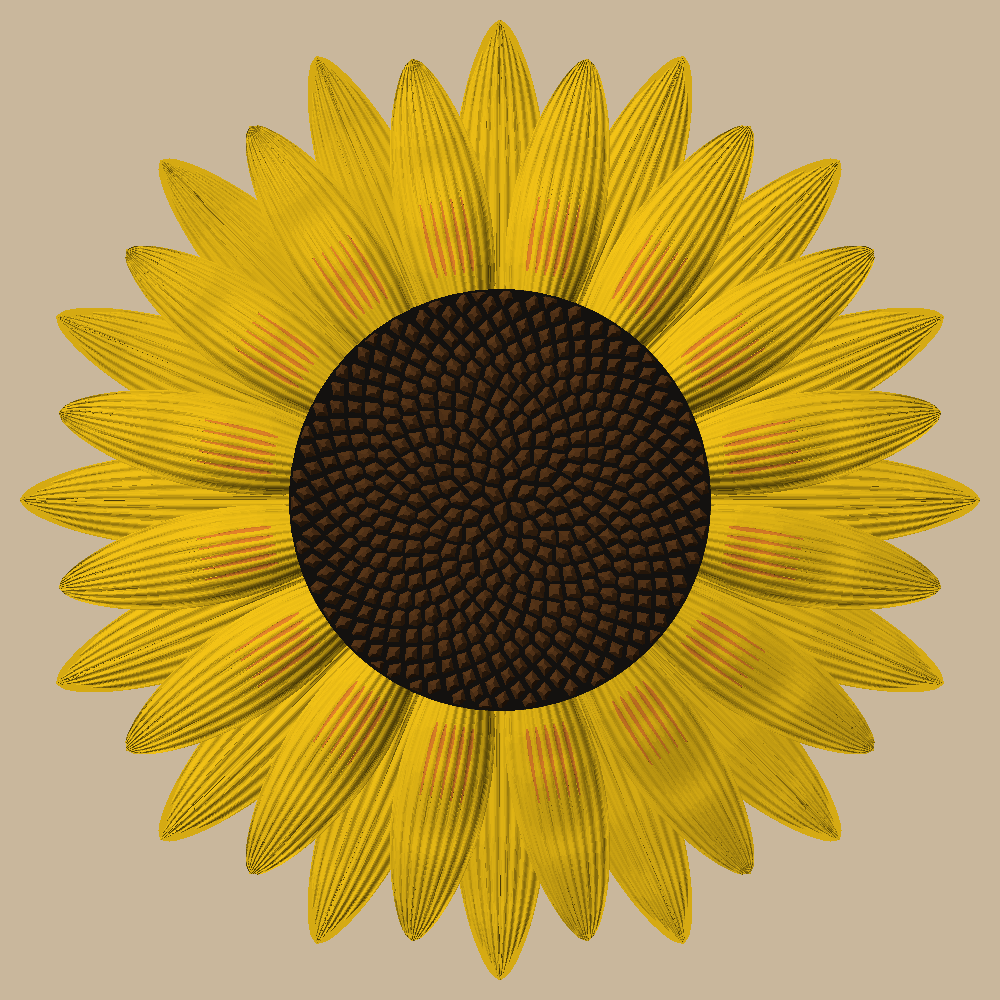
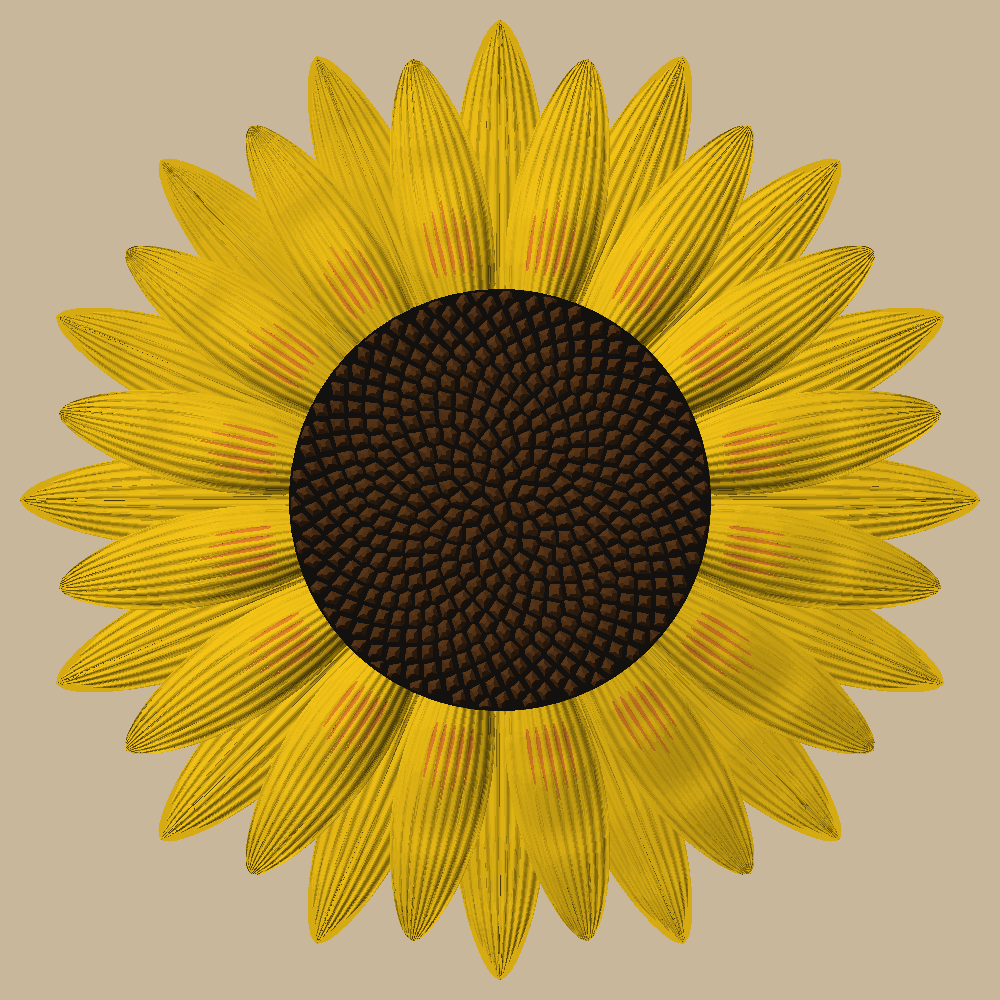
Sunflower: beads vary in length, the middle one longest, the outer pair 25% shorter
All start at the top of the arch; layout.bead_end steps each one shorter toward the
edges (bead_falloff). Fewer layers shared with yellow: 18 swaps (was 22), 9.3 h,
176 g. Flower tests green, including Bambu.

diff --git a/examples/sunflower-wall/tests/test_petals.py b/examples/sunflower-wall/tests/test_petals.py
@@ -36,9 +36,26 @@ def test_printed_petal_keeps_its_vein_grooves():
     assert dips >= S.petal_veins - 3  # the outer grooves sit past 0.8 of the half width
 
 
-def test_bead_width_fades_in_then_tapers_out():
+def test_middle_bead_runs_longest_the_outer_ones_shortest():
+    """Some variety: every bead starts at the top of the arch, the middle one runs to bead_r's end, and each step
+    out toward the edges ends sooner, the outermost bead_falloff of the length shorter."""
     r0, r1 = S.bead_r
-    w = lambda r: layout.bead_width(S, r)
+    mid = S.bead_valleys[len(S.bead_valleys) // 2]
+    ends = {k: layout.bead_end(S, k) for k in S.bead_valleys}
+    assert ends[mid] == pytest.approx(r1)
+    for k in S.bead_valleys:
+        if k != mid:
+            closer = k + (1 if k < mid else -1)
+            assert ends[k] < ends[closer]
+            assert ends[k] == pytest.approx(ends[2 * mid - k])  # the same each side
+    out = S.bead_valleys[0]
+    assert ends[out] == pytest.approx(r1 - (r1 - r0) * S.bead_falloff)
+
+
+@pytest.mark.parametrize("k", [2, 4])
+def test_bead_width_fades_in_then_tapers_out(k):
+    r0, r1 = S.bead_r[0], layout.bead_end(S, k)
+    w = lambda r: layout.bead_width(S, r, k)
     assert w(r0 - 0.1) == 0 and w(r1 + 0.1) == 0
     assert w(r0) == pytest.approx(S.bead_w_end) and w(r1) == pytest.approx(S.bead_w_end)
     assert w(r0 + S.bead_fade) == pytest.approx(S.bead_w)
@@ -56,11 +73,11 @@ def _bead_r_mid():
 
 
 def test_one_orange_bead_down_each_middle_valley(beads):
-    r0, r1 = S.bead_r
+    r0 = S.bead_r[0]
     assert len(beads.solids()) == len(S.bead_valleys)
-    for s in beads.solids():
+    for s, k in zip(sorted(beads.solids(), key=lambda s: s.center().Y), S.bead_valleys):
         bb = s.bounding_box()
-        assert bb.min.X == pytest.approx(r0, abs=0.05) and bb.max.X == pytest.approx(r1, abs=0.05)
+        assert bb.min.X == pytest.approx(r0, abs=0.05) and bb.max.X == pytest.approx(layout.bead_end(S, k), abs=0.05)
     r = _bead_r_mid()
     hw = layout.half_width(S.front, r)
     pieces = sorted((s.bounding_box() for s in (beads & probe(r - 0.05, -30, 0, 0.1, 60, 30)).solids()),
@@ -68,7 +85,7 @@ def test_one_orange_bead_down_each_middle_valley(beads):
     assert len(pieces) == len(S.bead_valleys)
     for b, k in zip(pieces, S.bead_valleys):
         assert b.center().Y == pytest.approx(layout.valley_u(S, k) * hw, abs=0.05)
-        assert b.size.Y == pytest.approx(layout.bead_width(S, r), abs=0.05)
+        assert b.size.Y == pytest.approx(layout.bead_width(S, r, k), abs=0.05)
 
 
 def test_beads_lie_flush_in_the_petal_top_on_yellow(beads):

diff --git a/examples/sunflower-wall/sunflower/layout.py b/examples/sunflower-wall/sunflower/layout.py
@@ -46,10 +46,19 @@ def valley_u(p: Params, k: int) -> float:
     return (2 * k + 1) / p.petal_veins - 1
 
 
-def bead_width(p: Params, r: float) -> float:
-    """Orange bead width at radius r: one line at the start, widening over bead_fade, then tapering back to one
-    line at the end; 0 outside the bead."""
+def bead_end(p: Params, k: int) -> float:
+    """Where the bead down valley k ends: the middle one at bead_r's end, each step out toward the edges sooner,
+    the outermost bead_falloff of the length short."""
     r0, r1 = p.bead_r
+    mid = p.bead_valleys[len(p.bead_valleys) // 2]
+    steps = max(abs(v - mid) for v in p.bead_valleys) or 1
+    return r1 - (r1 - r0) * p.bead_falloff * abs(k - mid) / steps
+
+
+def bead_width(p: Params, r: float, k: int) -> float:
+    """Width of the bead down valley k at radius r: one line at the start, widening over bead_fade, then tapering
+    back to one line at its end (bead_end); 0 outside the bead."""
+    r0, r1 = p.bead_r[0], bead_end(p, k)
     if r < r0 or r > r1:
         return 0.0
     if r < r0 + p.bead_fade:

diff --git a/examples/sunflower-wall/sunflower/parts/petals.py b/examples/sunflower-wall/sunflower/parts/petals.py
@@ -52,13 +52,13 @@ def petal(p: Params, layer: str) -> Part:
 
 
 def _bead_strip(p: Params, k: int, n: int = 40):
-    """Footprint of the bead down valley k: on the valley line, layout.bead_width wide."""
-    r0, r1 = p.bead_r
+    """Footprint of the bead down valley k: on the valley line, layout.bead_width wide, to layout.bead_end."""
+    r0, r1 = p.bead_r[0], layout.bead_end(p, k)
     u = layout.valley_u(p, k)
     left, right = [], []
     for i in range(n + 1):
         r = r0 + (r1 - r0) * i / n
-        y, w = u * layout.half_width(p.front, r), layout.bead_width(p, r)
+        y, w = u * layout.half_width(p.front, r), layout.bead_width(p, r, k)
         left.append((r, y + w / 2))
         right.append((r, y - w / 2))
     return poly(*(left + right[::-1]))

diff --git a/examples/sunflower-wall/sunflower/params.py b/examples/sunflower-wall/sunflower/params.py
@@ -41,6 +41,7 @@ class Params:
     bead_w: float = 1.2  # widest: three lines
     bead_w_end: float = 0.4  # one line where each bead fades in and where it tapers out
     bead_fade: float = 6.0  # fade-in length
+    bead_falloff: float = 0.25  # the outermost beads this much of the length shorter than the middle one
     bead_t: float = 0.4  # two layers, flush with the petal top
     hub_r: float = 78.0  # hub disk under the seed head
     back_t: float = 6.0  # back hub thickness; back petals stay below it

diff --git a/examples/sunflower-wall/docs/specs/2026-10-15-sunflower-design.md b/examples/sunflower-wall/docs/specs/2026-10-15-sunflower-design.md
@@ -120,3 +120,8 @@ at the bottom 1.6 mm lip and slides up a slot, held under the lip, with the fron
   is still drawn at 400 mm in `params.py` and scaled to the bed by `flower.params()` (radii and widths only).
   `small.py` became `flower.py`. The beads are now cut from one front petal before the ring is fused, instead of
   from the whole fused flower (that boolean made the tests take an hour).
+- 2026-10-21: Some variety in the beads (the user, from Bambu's preview: "middle slightly longer than the
+  outsides"). They all still start at the top of the arch; the middle bead runs to `bead_r`'s end and each step
+  out toward the edges ends sooner, the outermost pair `bead_falloff` = 25% of the length short
+  (`layout.bead_end`). Each keeps its fade-in and taper to one line. Sliced: 9.3 h, 176 g; the beads now share layers
+  42-57 with yellow (16 swaps, was 20), 18 in all.

diff --git a/examples/sunflower-wall/README.md b/examples/sunflower-wall/README.md
@@ -14,7 +14,7 @@ they read as depth, not stripes.
 `uv run python -m sunflower.build` writes `out/plates/sunflower_10in.3mf`: one plate with the whole flower
 stacked in place, a Bambu project that opens already colored (File → Open Project). It prints yellow (the orange
 beads share some of those layers: a swap on each), then black, then brown, with the prime tower in the bed's
-front-left corner: 9.4 h, 177 g (124 g yellow, 3 g orange, 14 g black, 37 g brown), 22 color swaps.
+front-left corner: 9.3 h, 176 g (123 g yellow, 2 g orange, 14 g black, 37 g brown), 18 color swaps.
 
 AMS slots: 1 orange, 2 yellow, 3 black, 4 brown (`filaments` and `slot_*` in `sunflower/params.py`).
 
